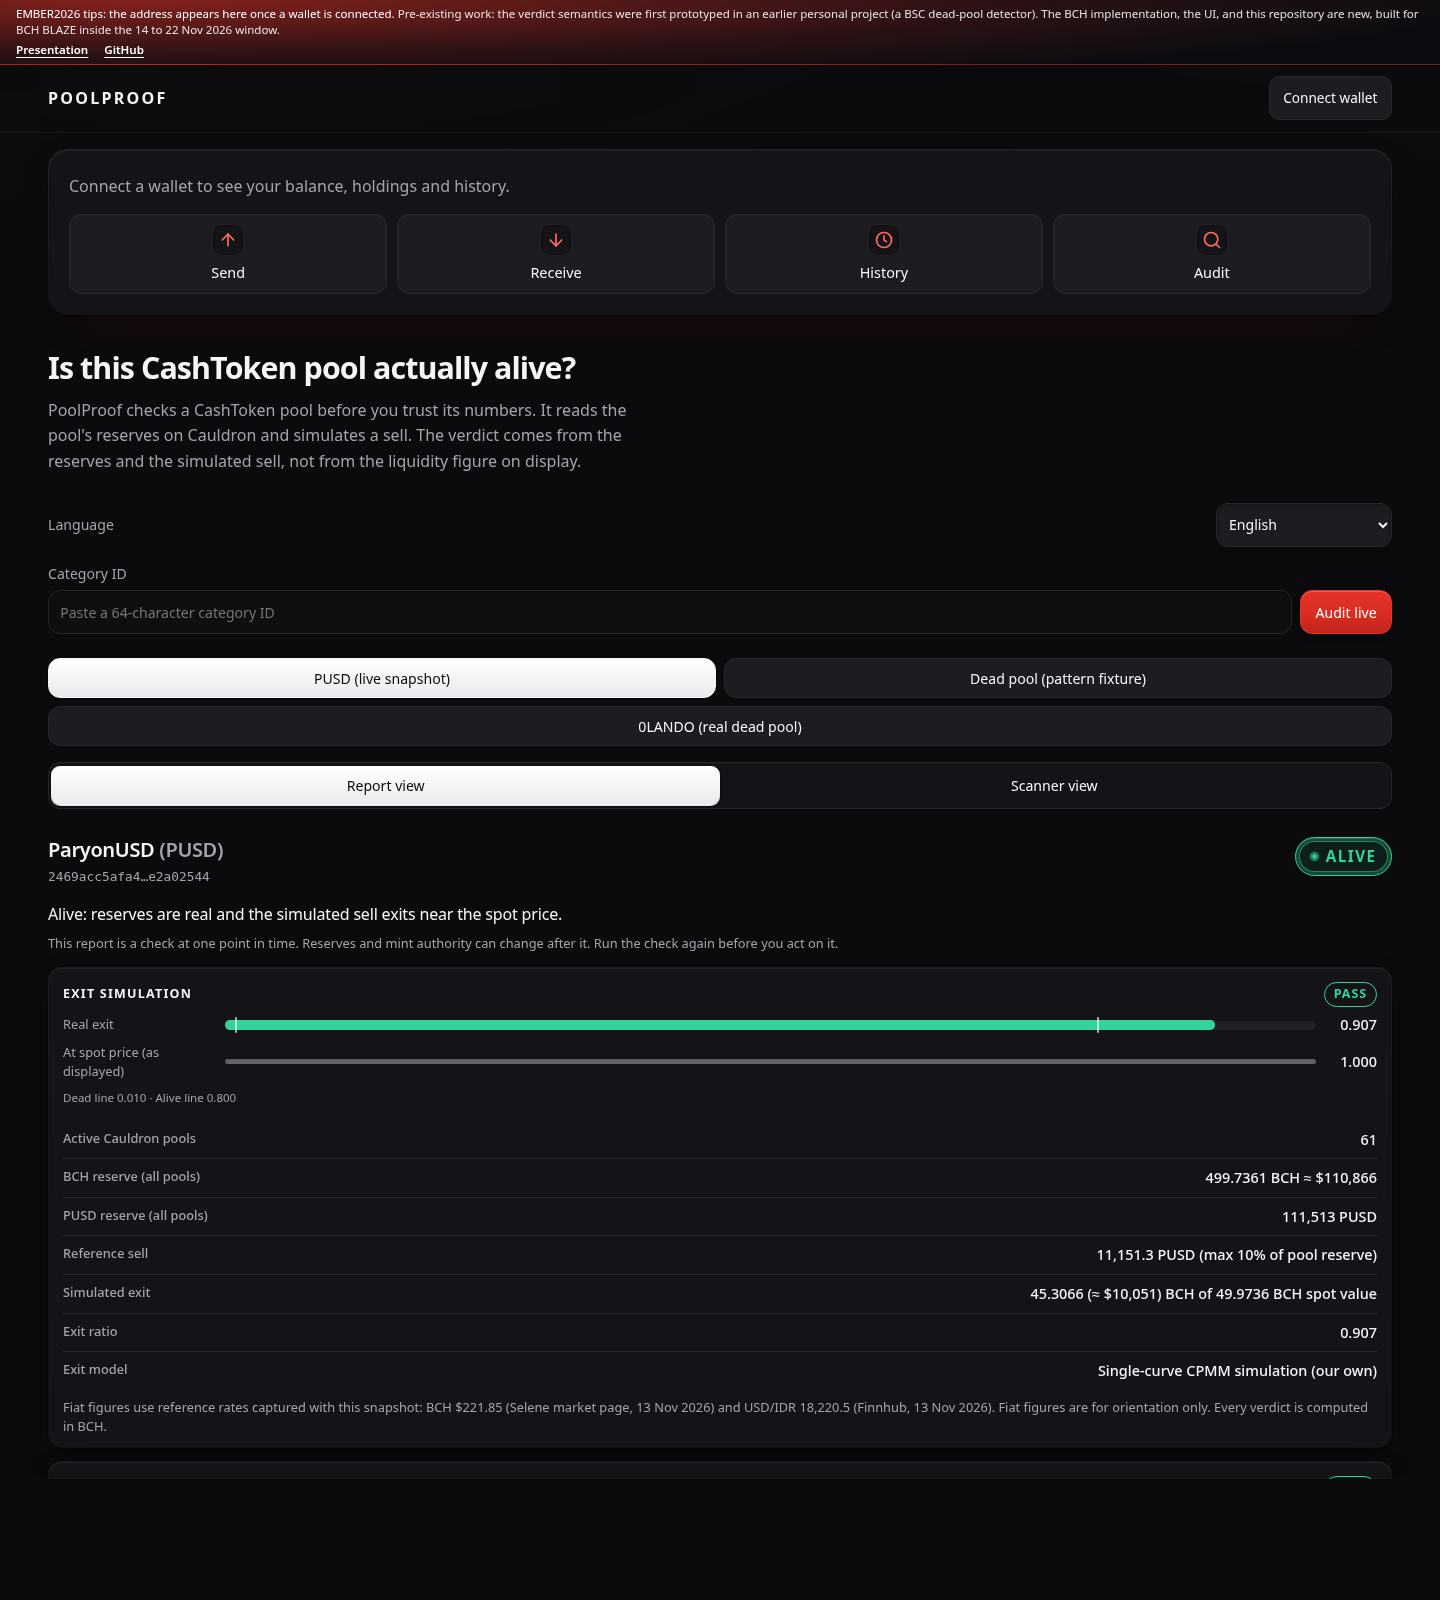
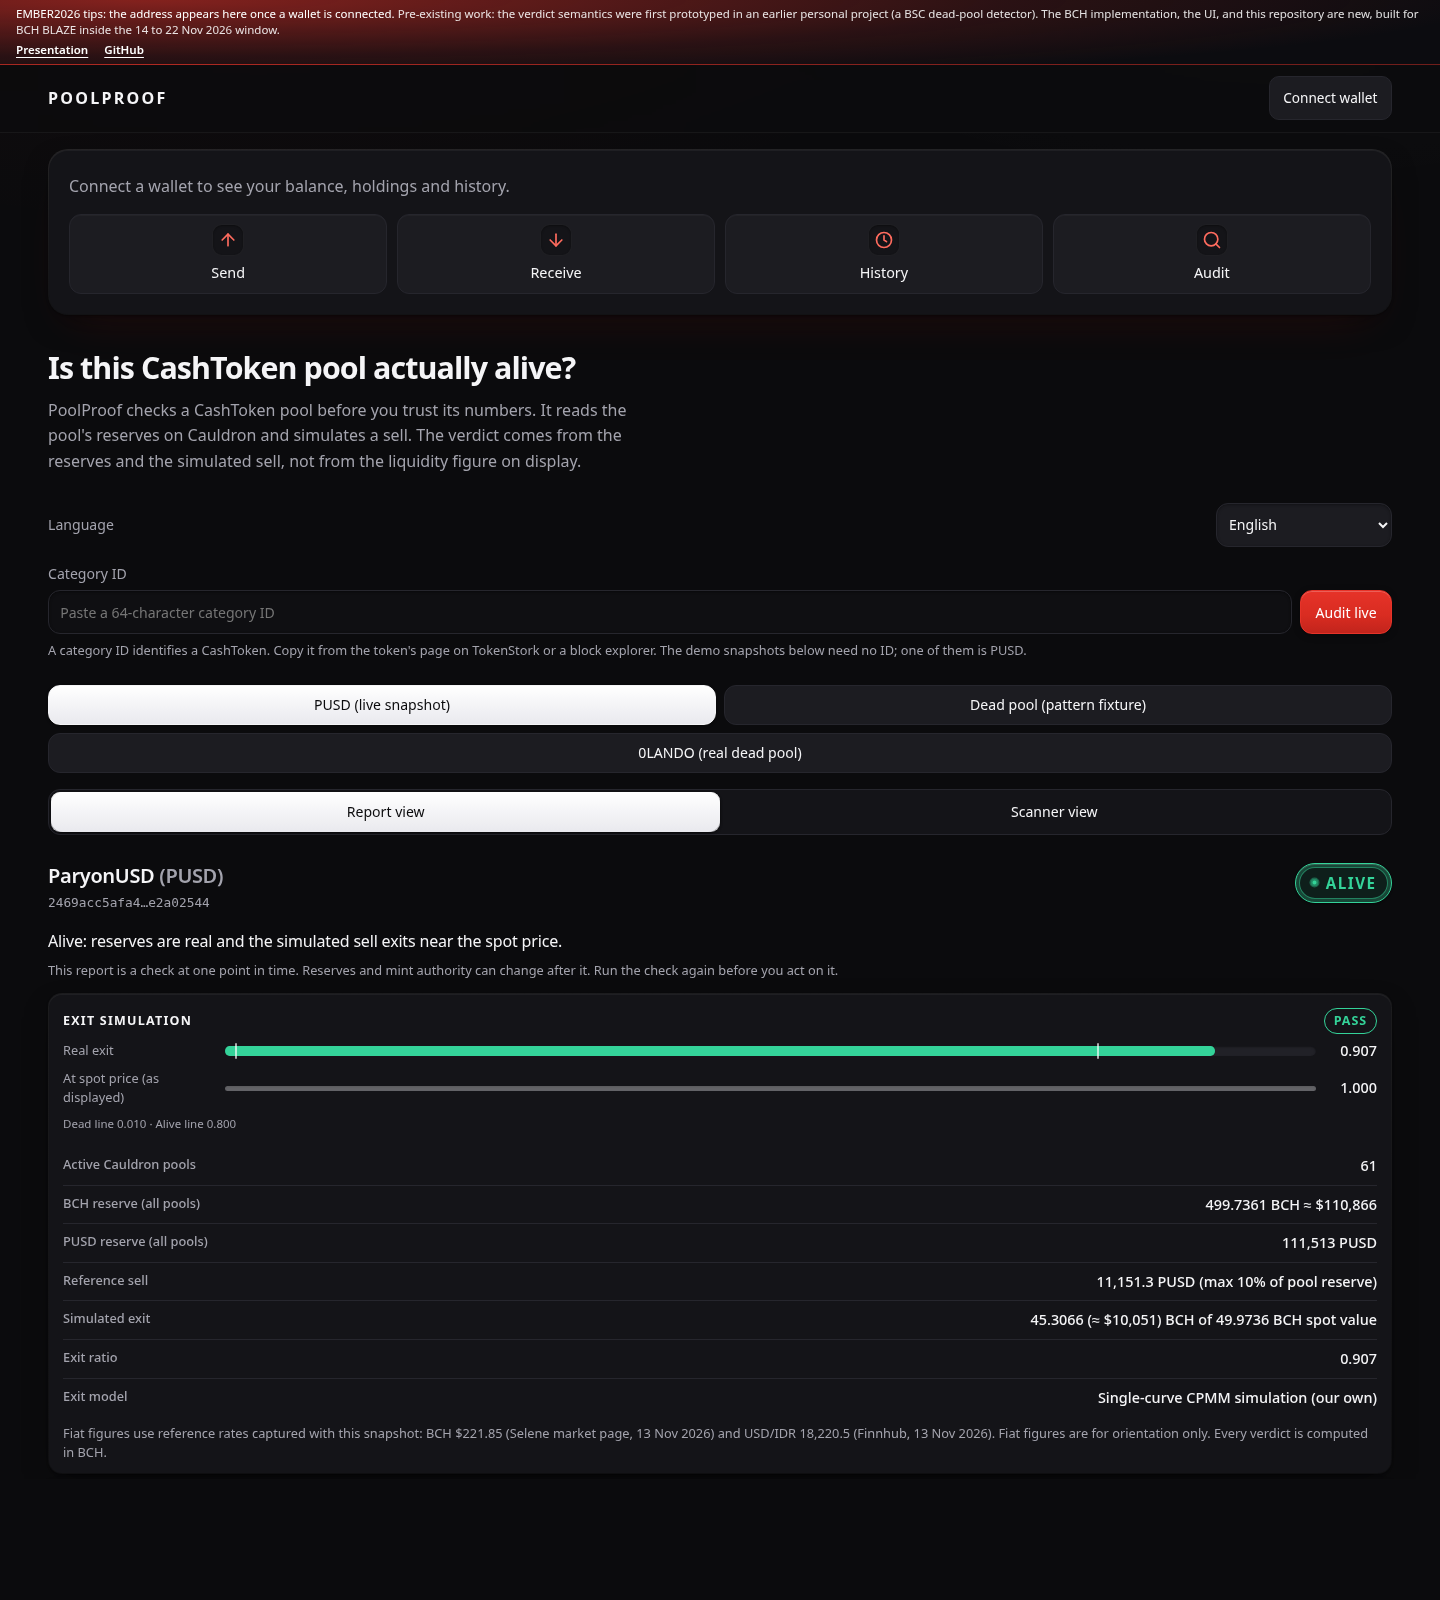
R70: submission-package audit - README claims re-verified (suite 657, pairing routes per R69, byte-identical claim scoped), screenshots regenerated at head 2a413fc

diff --git a/README.md b/README.md
@@ -52,7 +52,7 @@ PoolProof is a static Vite, React and TypeScript site. There is no server and no
 
 - **Reserves** come from the Cauldron Indexer run by Riften. **Identity, supply, mint authority and holders** come from TokenStork as an independent second source. **Wallet balance and confirmation status** come from public Electrum servers over WebSocket.
 - The verdict core is pure TypeScript. It reads per-pool reserves, runs the routed constant-product simulation and applies the verdict thresholds. Nothing in the money path uses floating point.
-- **Wallet pairing and signing** use WizardConnect, which connects the app to Paytaca, Selene or Cashonize. The wallet signs; the app checks the signed bytes against the transaction you confirmed before broadcasting through Electrum. Transaction building uses `@bitauth/libauth`.
+- **Wallet pairing and signing** use WizardConnect, which connects the app to Paytaca, Selene or Cashonize. Pairing follows the routes those wallets actually use: with the wallet on the same phone, copy the connection link in the dialog and paste it into the wallet's connect or scan page; with the wallet on a second device, scan the dialog's QR code. The dialog also offers a deep-link button for wallets that answer one. The wallet signs; the app checks the signed bytes against the transaction you confirmed before broadcasting through Electrum. Transaction building uses `@bitauth/libauth`.
 - The app holds no keys and never takes custody of funds. Your wallet keeps your keys, and every transaction is shown to you before it is offered to the wallet for signing.
 
 ## Run locally
@@ -67,7 +67,7 @@ npm run build
 
 ## Testing
 
-The verdict and wallet logic was built in a practice lab first, then ported into this repository file by file, with the lab copy and the shipped copy kept byte-identical. The lab suite currently runs **566 checks, all passing**, covering:
+The verdict and wallet logic was built in a practice lab first, then ported into this repository file by file. The shipped core modules are byte-identical to the lab copies the suite runs against, with one exception: `src/core/wallet-address.ts` adds a token-aware address form (the address the banner and the Receive panel show) on top of its lab copy, built from the same payload code. The lab suite currently runs **657 checks, all passing**, covering:
 
 - verdict thresholds and the routed exit simulation, tested against real captured fixtures (PUSD alive, 0LANDO dead);
 - the exit gauge's model (ratio and dust-reserve modes, with the tick positions taken from the verdict's own constants), the per-pool reserve split, and the audit's stage signals, which fire only when their real read resolves;
